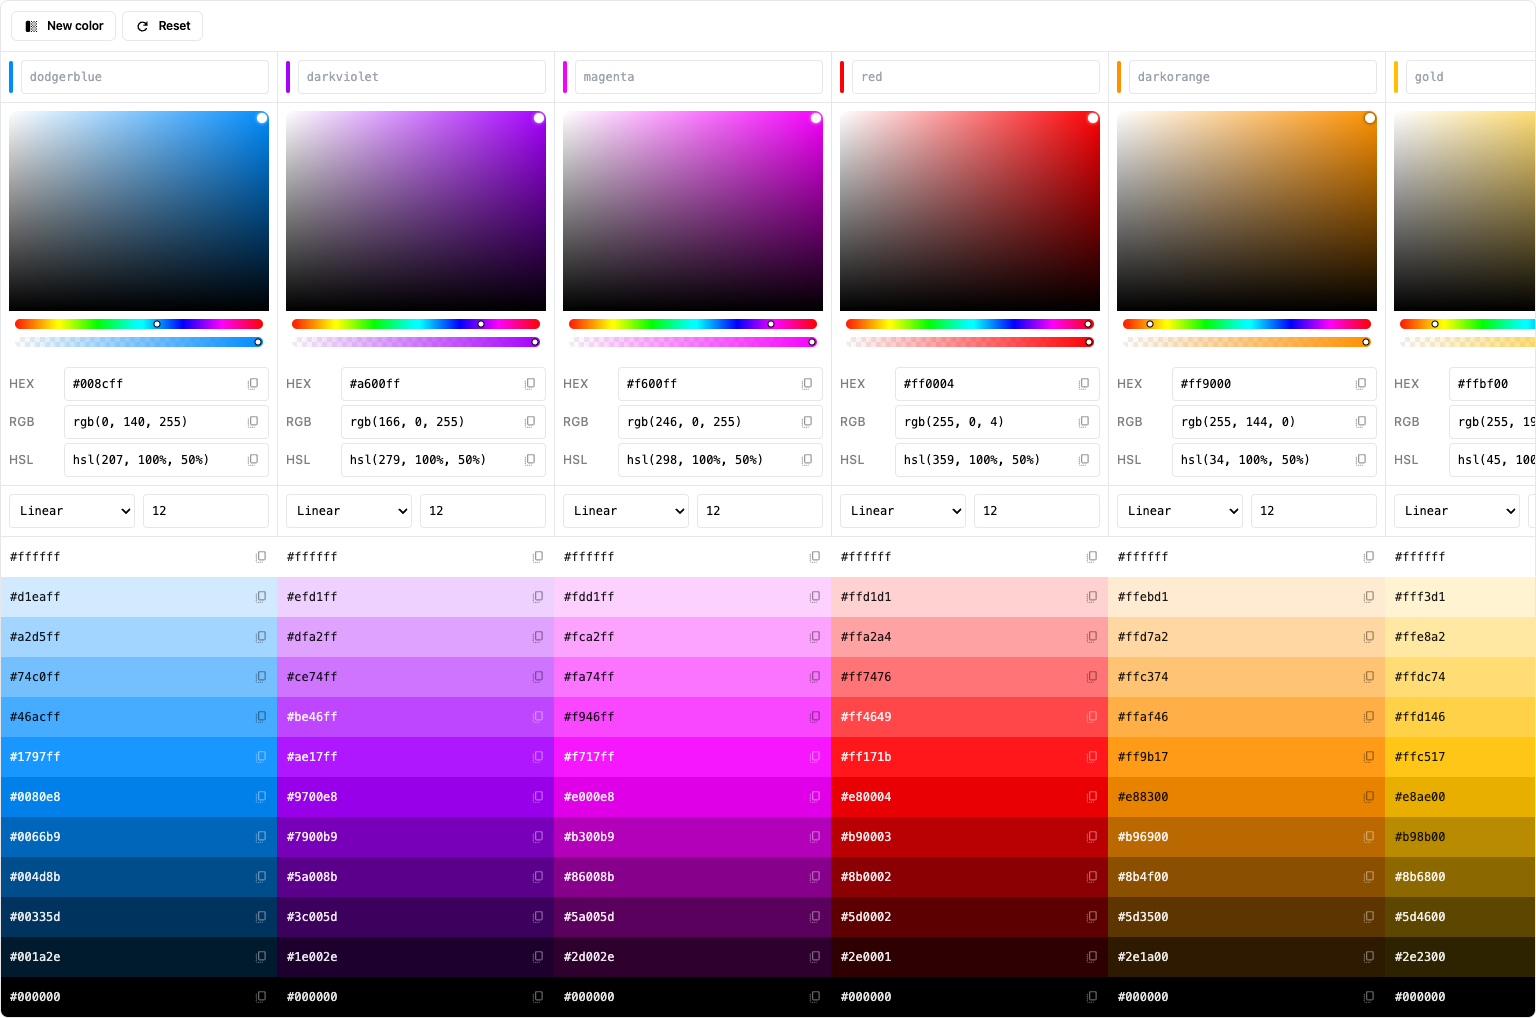
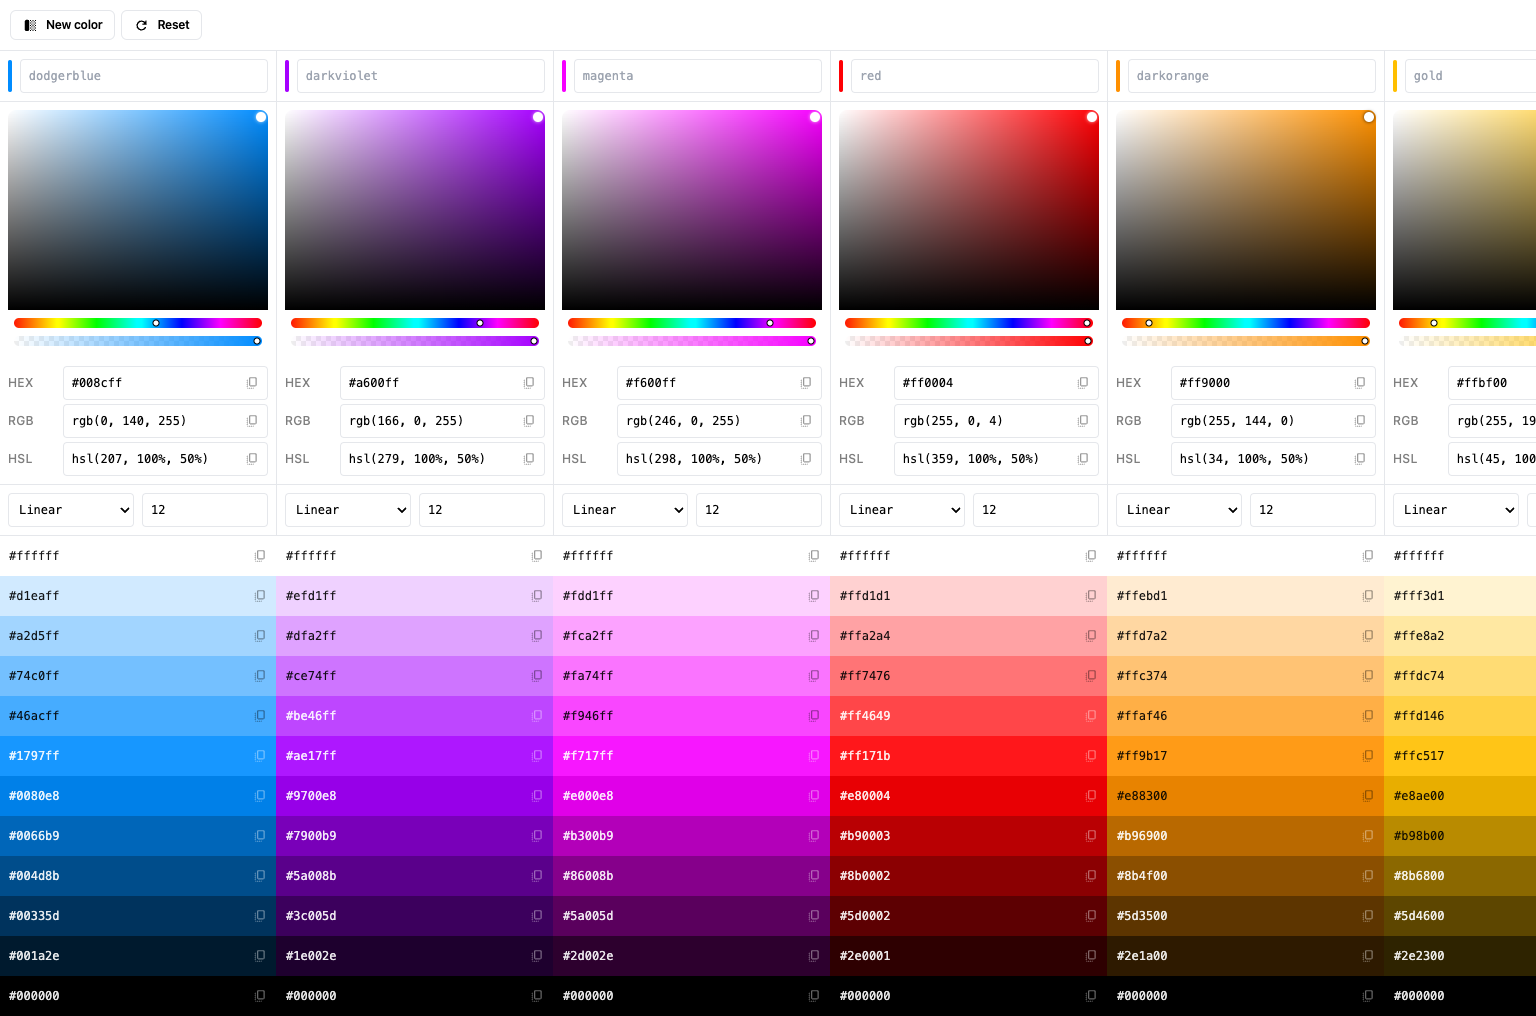
fix: update viewport size to prevent gap at the bottom

diff --git a/src/routes/+layout.svelte b/src/routes/+layout.svelte
@@ -1,6 +1,8 @@
 <script lang="ts">
 	import '../app.css';
 
+	import { VIEWPORT_SIZE } from '$lib';
+
 	import {
 		PUBLIC_IS_DEMO,
 		PUBLIC_PLAUSIBLE_API,
@@ -53,7 +55,7 @@
 			</nav>
 		</header>
 
-		<main class="main main--demo">
+		<main class="main main--demo" style="height: {VIEWPORT_SIZE.height}px;">
 			{@render children()}
 		</main>
 
@@ -116,7 +118,7 @@
 	}
 
 	.main--demo {
-		@apply container mx-auto h-[1018px] overflow-hidden rounded-lg border shadow-2xl;
+		@apply container mx-auto overflow-hidden rounded-lg border shadow-2xl;
 	}
 
 	.demo-footer {

diff --git a/src/lib/index.ts b/src/lib/index.ts
@@ -1,2 +1,2 @@
 // place files you want to import through the `$lib` alias in this folder.
-export const VIEWPORT_SIZE = { width: 1536, height: 1018 };
+export const VIEWPORT_SIZE = { width: 1536, height: 1016 };
